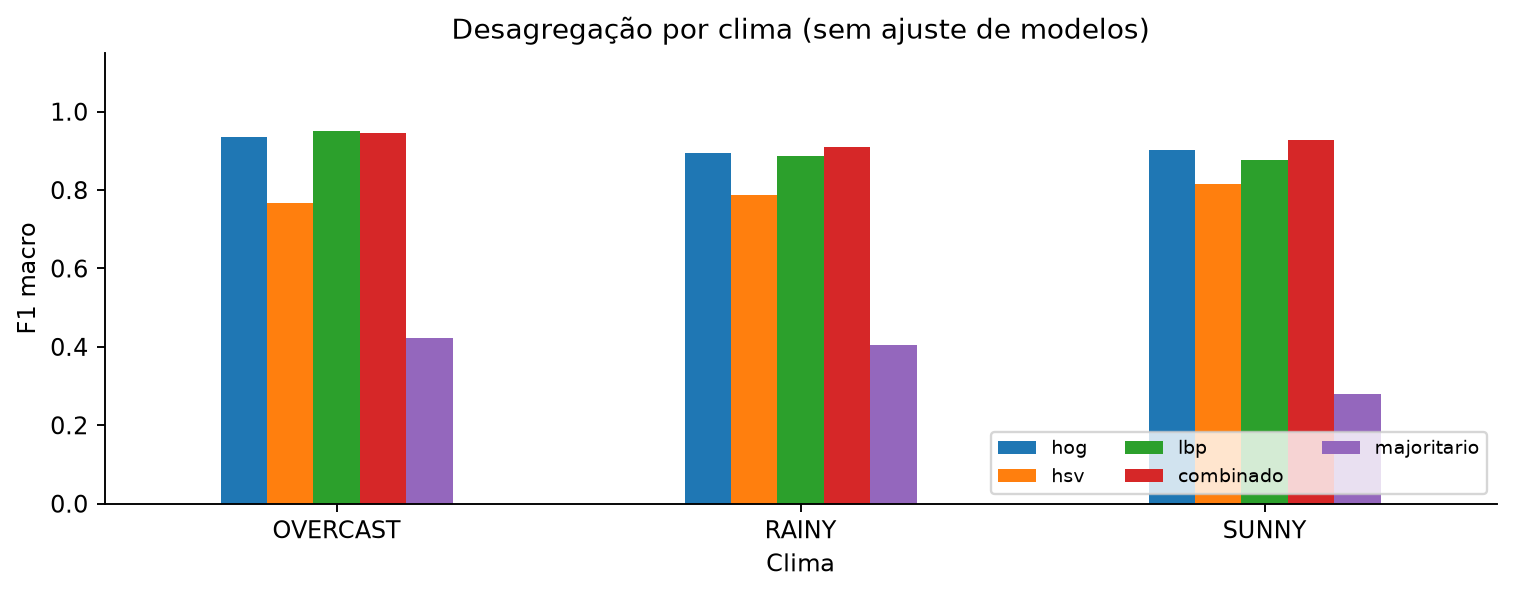
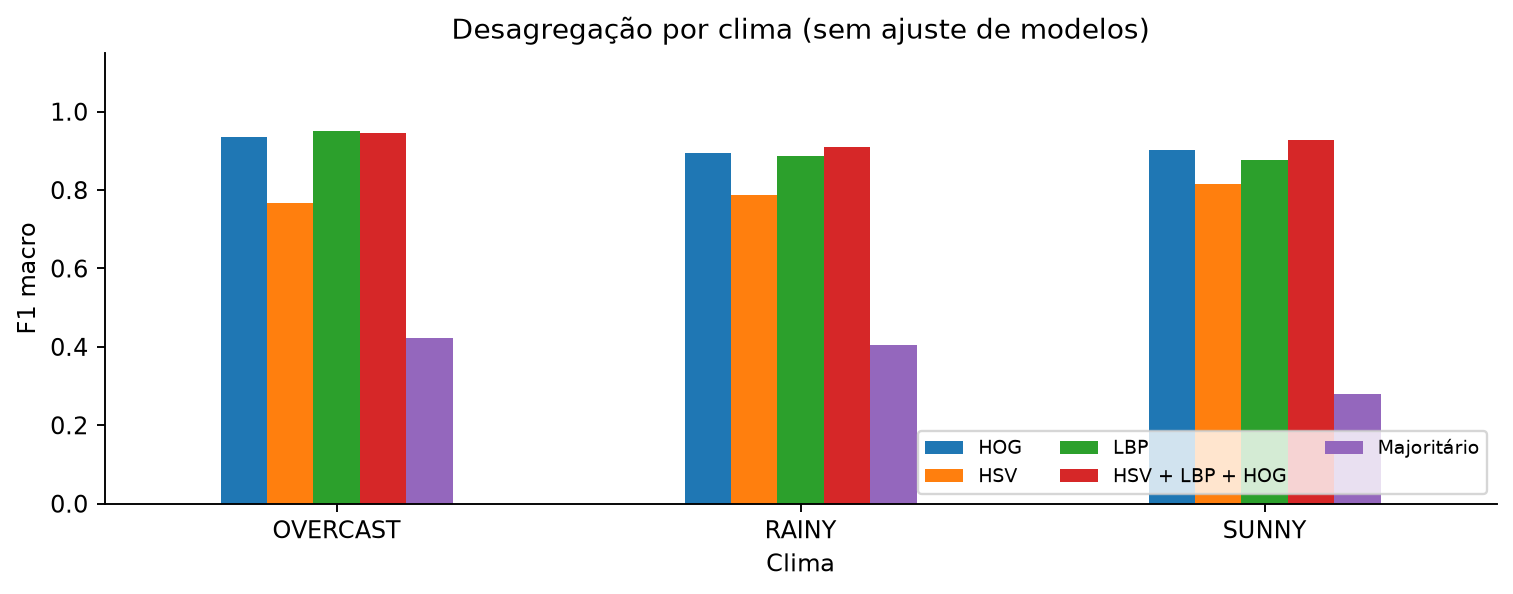
fix: explicita descritores e ajusta tabelas do relatorio

Changed region(s): [[0.5902, 0.697, 0.9009, 0.8485], [0.9009, 0.7273, 0.9319, 0.7576]]

diff --git a/src/visao_computacional/relatorio.py b/src/visao_computacional/relatorio.py
@@ -7,7 +7,7 @@ from pathlib import Path
 import pandas as pd
 
 from .dados import carregar_manifesto
-from .visualizacao import resultados_verificados
+from .visualizacao import DESCRITORES, resultados_verificados
 
 
 def tabela(headers, rows):
@@ -26,13 +26,7 @@ def escrever_markdown(config):
     validation = pd.read_csv(base / "metricas/validacao.csv")
     climate = pd.read_csv(base / "metricas/clima.csv")
     winner = freeze["selected"]
-    names = {
-        "hog": "HOG",
-        "hsv": "HSV",
-        "lbp": "LBP",
-        "combinado": "Combinação",
-        "majoritario": "Majoritário",
-    }
+    names = DESCRITORES
     best, dummy = test.loc[winner], test.loc["majoritario"]
     selected = next(r for r in freeze["models"] if r["descriptor"] == winner)
     prediction = pd.read_csv(base / "predicoes" / f"{winner}.csv")
@@ -44,6 +38,7 @@ def escrever_markdown(config):
         "vencedor": names[winner],
         "c": f"{selected['C']:g}",
         "val_f1": f"{selected['validation_f1_macro']:.4f}",
+        "val_f1_combinado": f"{next(r for r in freeze['models'] if r['descriptor'] == 'combinado')['validation_f1_macro']:.4f}",
         "teste_f1": f"{best.f1_macro:.4f}",
         "teste_acc": f"{best.accuracy:.4f}",
         "dummy_f1": f"{dummy.f1_macro:.4f}",
@@ -122,13 +117,11 @@ def escrever_markdown(config):
     )
     pivot = climate.pivot(index="weather", columns="descriptor", values="f1_macro")
     replacements["tabela_clima"] = tabela(
-        ["Clima", "N", "Livre", "Ocup.", *["Combin." if n == "combinado" else names[n] for n in test.index]],
+        ["Clima", "N (livre/ocup.)", *[names[n] for n in test.index]],
         [
             [
                 w,
-                int(g.n.iloc[0]),
-                int(g.n_livre.iloc[0]),
-                int(g.n_ocupada.iloc[0]),
+                f"{int(g.n.iloc[0])} ({int(g.n_livre.iloc[0])}/{int(g.n_ocupada.iloc[0])})",
                 *[f"{pivot.loc[w, n]:.3f}" for n in test.index],
             ]
             for w, g in climate.groupby("weather")
@@ -137,6 +130,23 @@ def escrever_markdown(config):
     replacements["tabela_versoes"] = tabela(
         ["Componente", "Versão"], evaluation["provenance"]["versions"].items()
     )
+
+    def percent(value):
+        return f"{100 * value:.1f}%".replace(".", ",")
+
+    for split in ("validacao", "teste"):
+        subset = frame[frame.split == split]
+        replacements[f"ocupadas_{split}"] = percent(subset.label.mean())
+        for weather in ("OVERCAST", "SUNNY", "RAINY"):
+            replacements[f"{weather.lower()}_{split}"] = percent(subset.weather.eq(weather).mean())
+    for weather in ("OVERCAST", "SUNNY", "RAINY"):
+        for descriptor in ("lbp", "combinado"):
+            row = climate[(climate.weather == weather) & (climate.descriptor == descriptor)].iloc[0]
+            replacements[f"f1_{descriptor}_{weather.lower()}"] = f"{row.f1_macro:.4f}"
+    for descriptor in ("hog", "combinado"):
+        replacements[f"tempo_{descriptor}"] = (
+            f"{test.loc[descriptor, 'extraction_ms_per_image']:.3f}".replace(".", ",")
+        )
     worst = climate[climate.descriptor == winner].sort_values("f1_macro").iloc[0]
     replacements["pior_clima"] = f"{worst.weather} (F1 macro {worst.f1_macro:.4f}, n={int(worst.n)})"
     for field in ("camera", "date", "capture", "slot"):
@@ -244,8 +254,12 @@ def renderizar_pdf(source, output):
                     rows.append(cells)
                 i += 1
             column_widths = [width / len(rows[0])] * len(rows[0])
-            if len(rows[0]) == 9:
-                column_widths = [66] + [(width - 66) / 8] * 8
+            first_header = rows[0][0].getPlainText()
+            if first_header == "Descritor":
+                column_widths = [110] + [(width - 110) / (len(rows[0]) - 1)] * (len(rows[0]) - 1)
+            elif first_header == "Clima" and len(rows[0]) == 7:
+                weights = [1.1, 1.45, 0.7, 0.7, 0.7, 1.8, 1.1]
+                column_widths = [width * weight / sum(weights) for weight in weights]
             table = Table(rows, colWidths=column_widths, repeatRows=1, hAlign="LEFT")
             table.setStyle(
                 TableStyle(

diff --git a/src/visao_computacional/visualizacao.py b/src/visao_computacional/visualizacao.py
@@ -16,6 +16,13 @@ from .preprocessamento import ler_rgb
 
 CORES = ["#2563eb", "#ea580c"]
 NOMES = {0: "Livre", 1: "Ocupada"}
+DESCRITORES = {
+    "hog": "HOG",
+    "hsv": "HSV",
+    "lbp": "LBP",
+    "combinado": "HSV + LBP + HOG",
+    "majoritario": "Majoritário",
+}
 
 
 def estilo():
@@ -107,7 +114,10 @@ def figuras(config):
     x = np.arange(len(metrics))
     ax.bar(x - 0.18, metrics.accuracy, 0.36, label="Acurácia", color=CORES[0])
     ax.bar(x + 0.18, metrics.f1_macro, 0.36, label="F1 macro", color=CORES[1])
-    ax.set(xticks=x, xticklabels=names, ylim=(0, 1.1), ylabel="Escore", title="Comparação no teste congelado")
+    labels = ["HSV + LBP\n+ HOG" if n == "combinado" else DESCRITORES[n] for n in names]
+    ax.set(
+        xticks=x, xticklabels=labels, ylim=(0, 1.1), ylabel="Escore", title="Comparação no teste congelado"
+    )
     ax.legend(loc="lower right")
     for i, value in enumerate(metrics.f1_macro):
         ax.text(i + 0.18, value + 0.015, f"{value:.3f}", ha="center", fontsize=8)
@@ -115,7 +125,7 @@ def figuras(config):
     salvar_figura(fig, base / "figuras/comparacao.png")
     pivot = climate.pivot(index="weather", columns="descriptor", values="f1_macro").reindex(columns=names)
     fig, ax = plt.subplots(figsize=(9, 3.6))
-    pivot.plot.bar(ax=ax, rot=0, ylim=(0, 1.15))
+    pivot.rename(columns=DESCRITORES).plot.bar(ax=ax, rot=0, ylim=(0, 1.15))
     ax.set(xlabel="Clima", ylabel="F1 macro", title="Desagregação por clima (sem ajuste de modelos)")
     ax.legend(fontsize=8, ncol=3, loc="lower right")
     fig.tight_layout()
